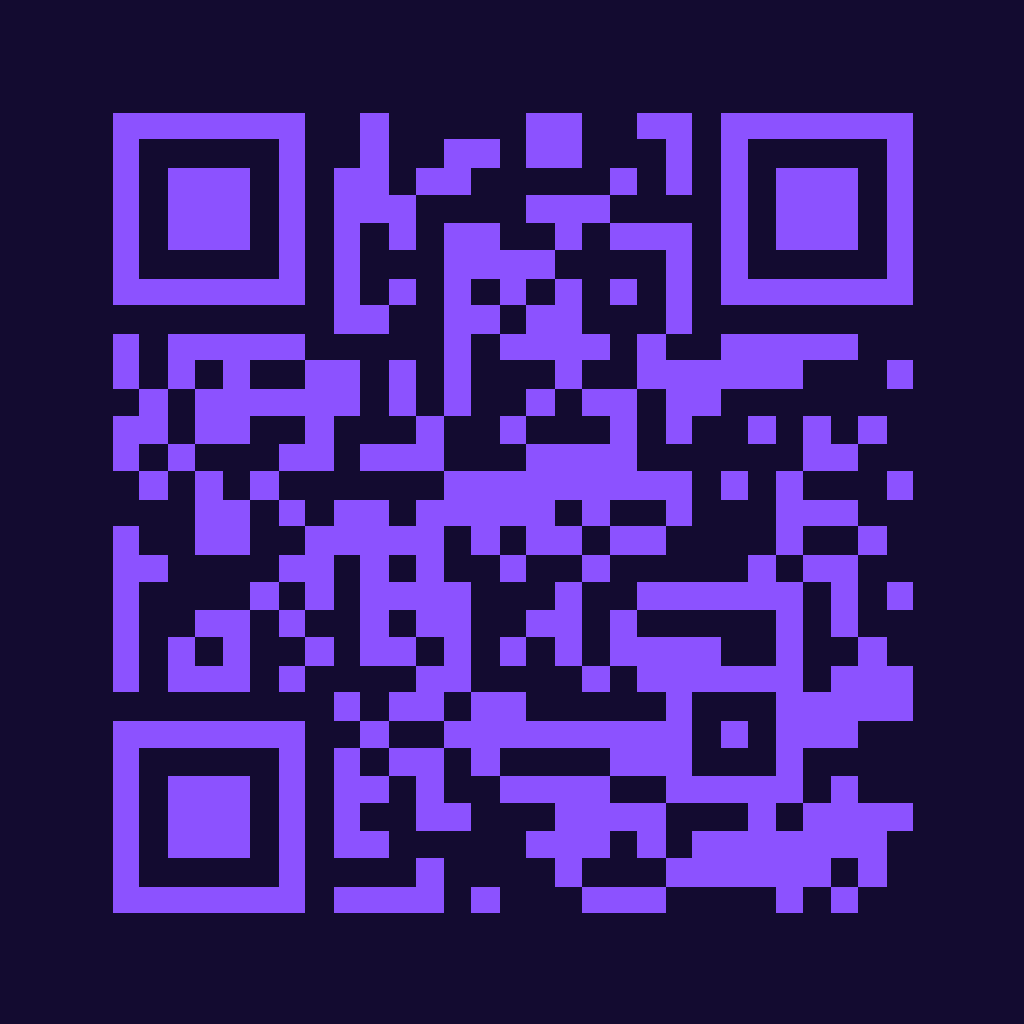
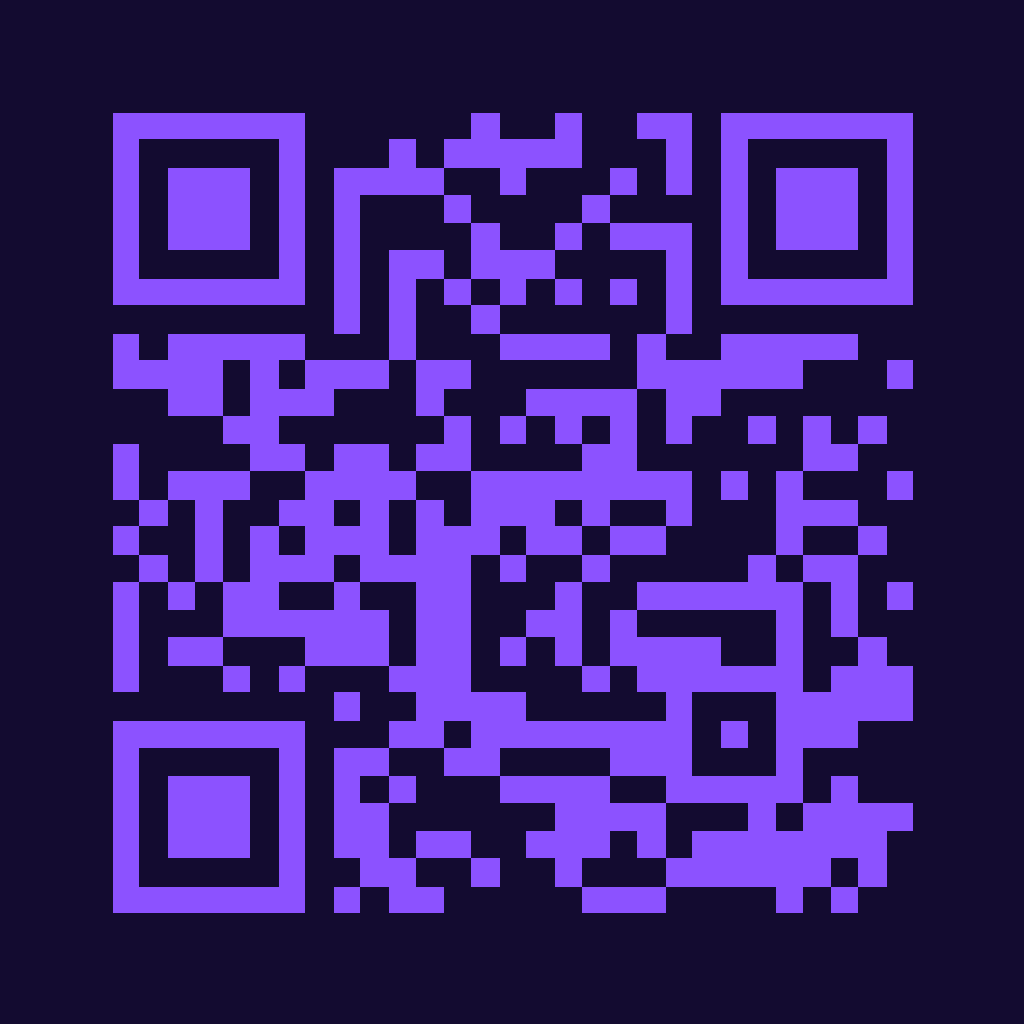
docs: update slide title and replace live feedback QR code

Changed region(s): [[0.0938, 0.0938, 0.5938, 0.9062], [0.5, 0.2812, 0.5938, 0.4688]]

diff --git a/talks/antigravity-workshop/slides.md b/talks/antigravity-workshop/slides.md
@@ -6,7 +6,7 @@ date: 2026-07-08
 
 <!-- .slide: class="center-slide" -->
 
-### <span class="underline-accent">Join Live Feedback</span>
+### <span class="underline-accent">Live Feedback & Resources</span>
 
 <div class="pt-8">
 
